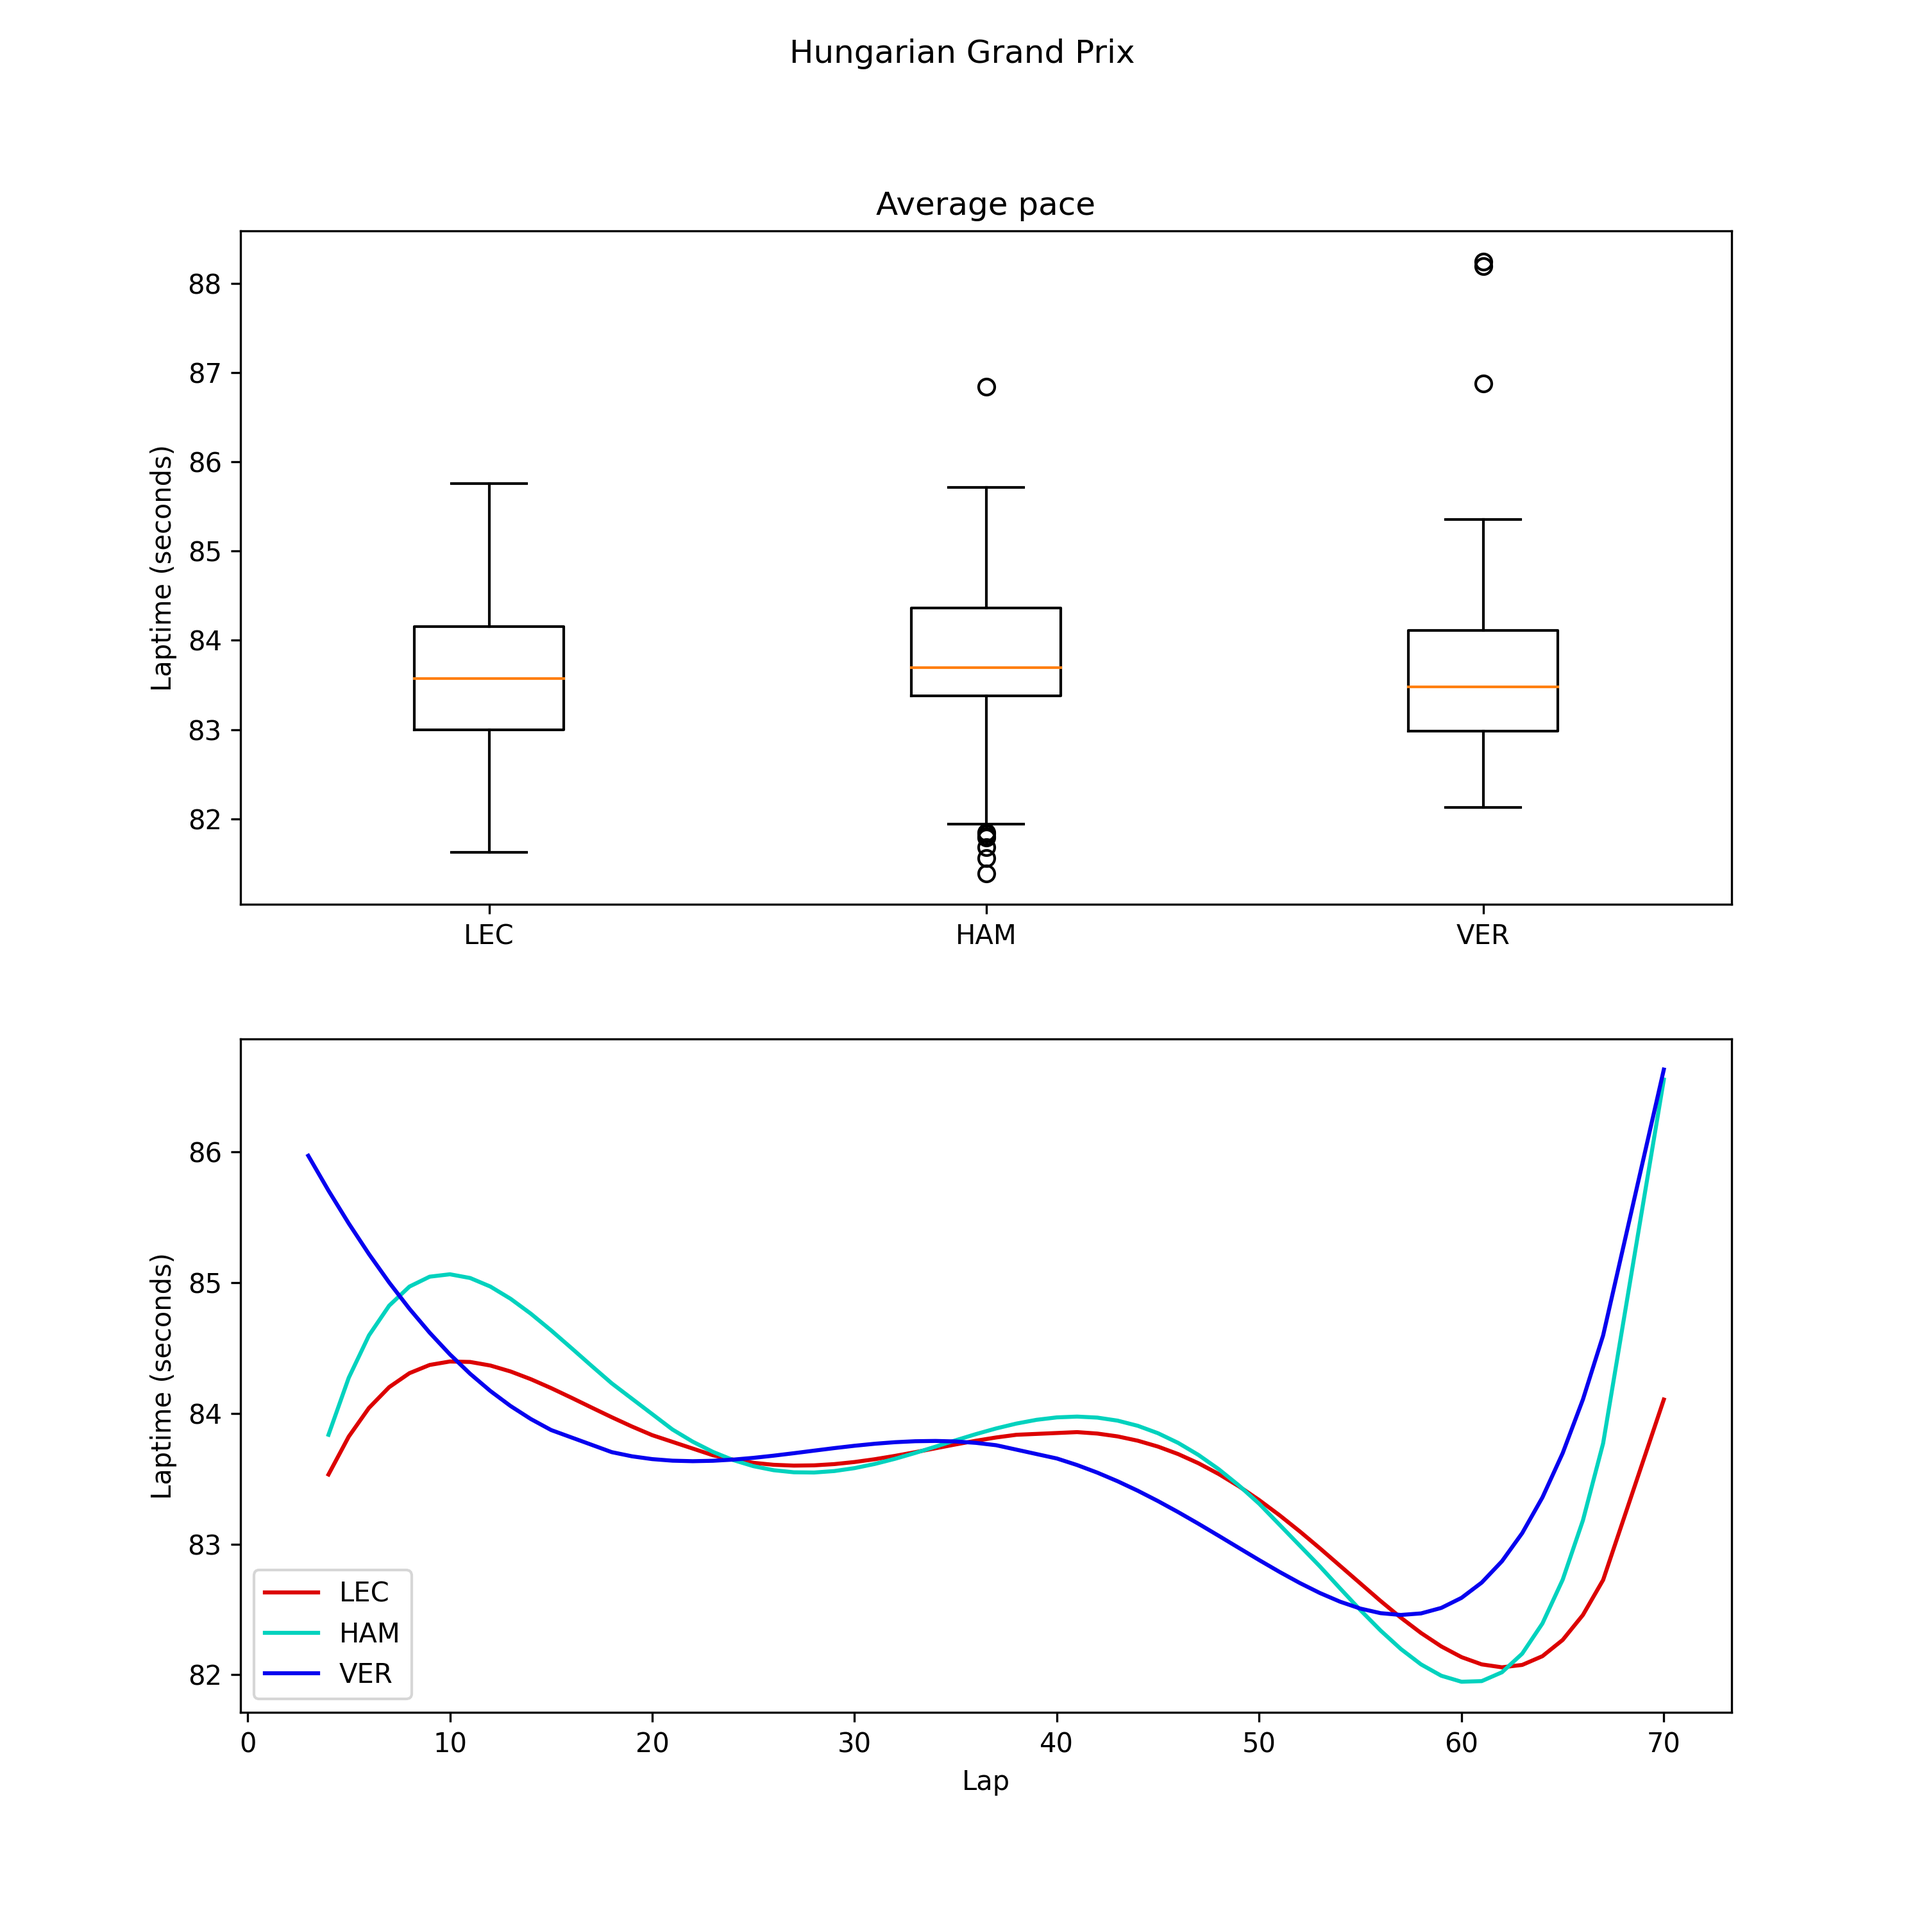
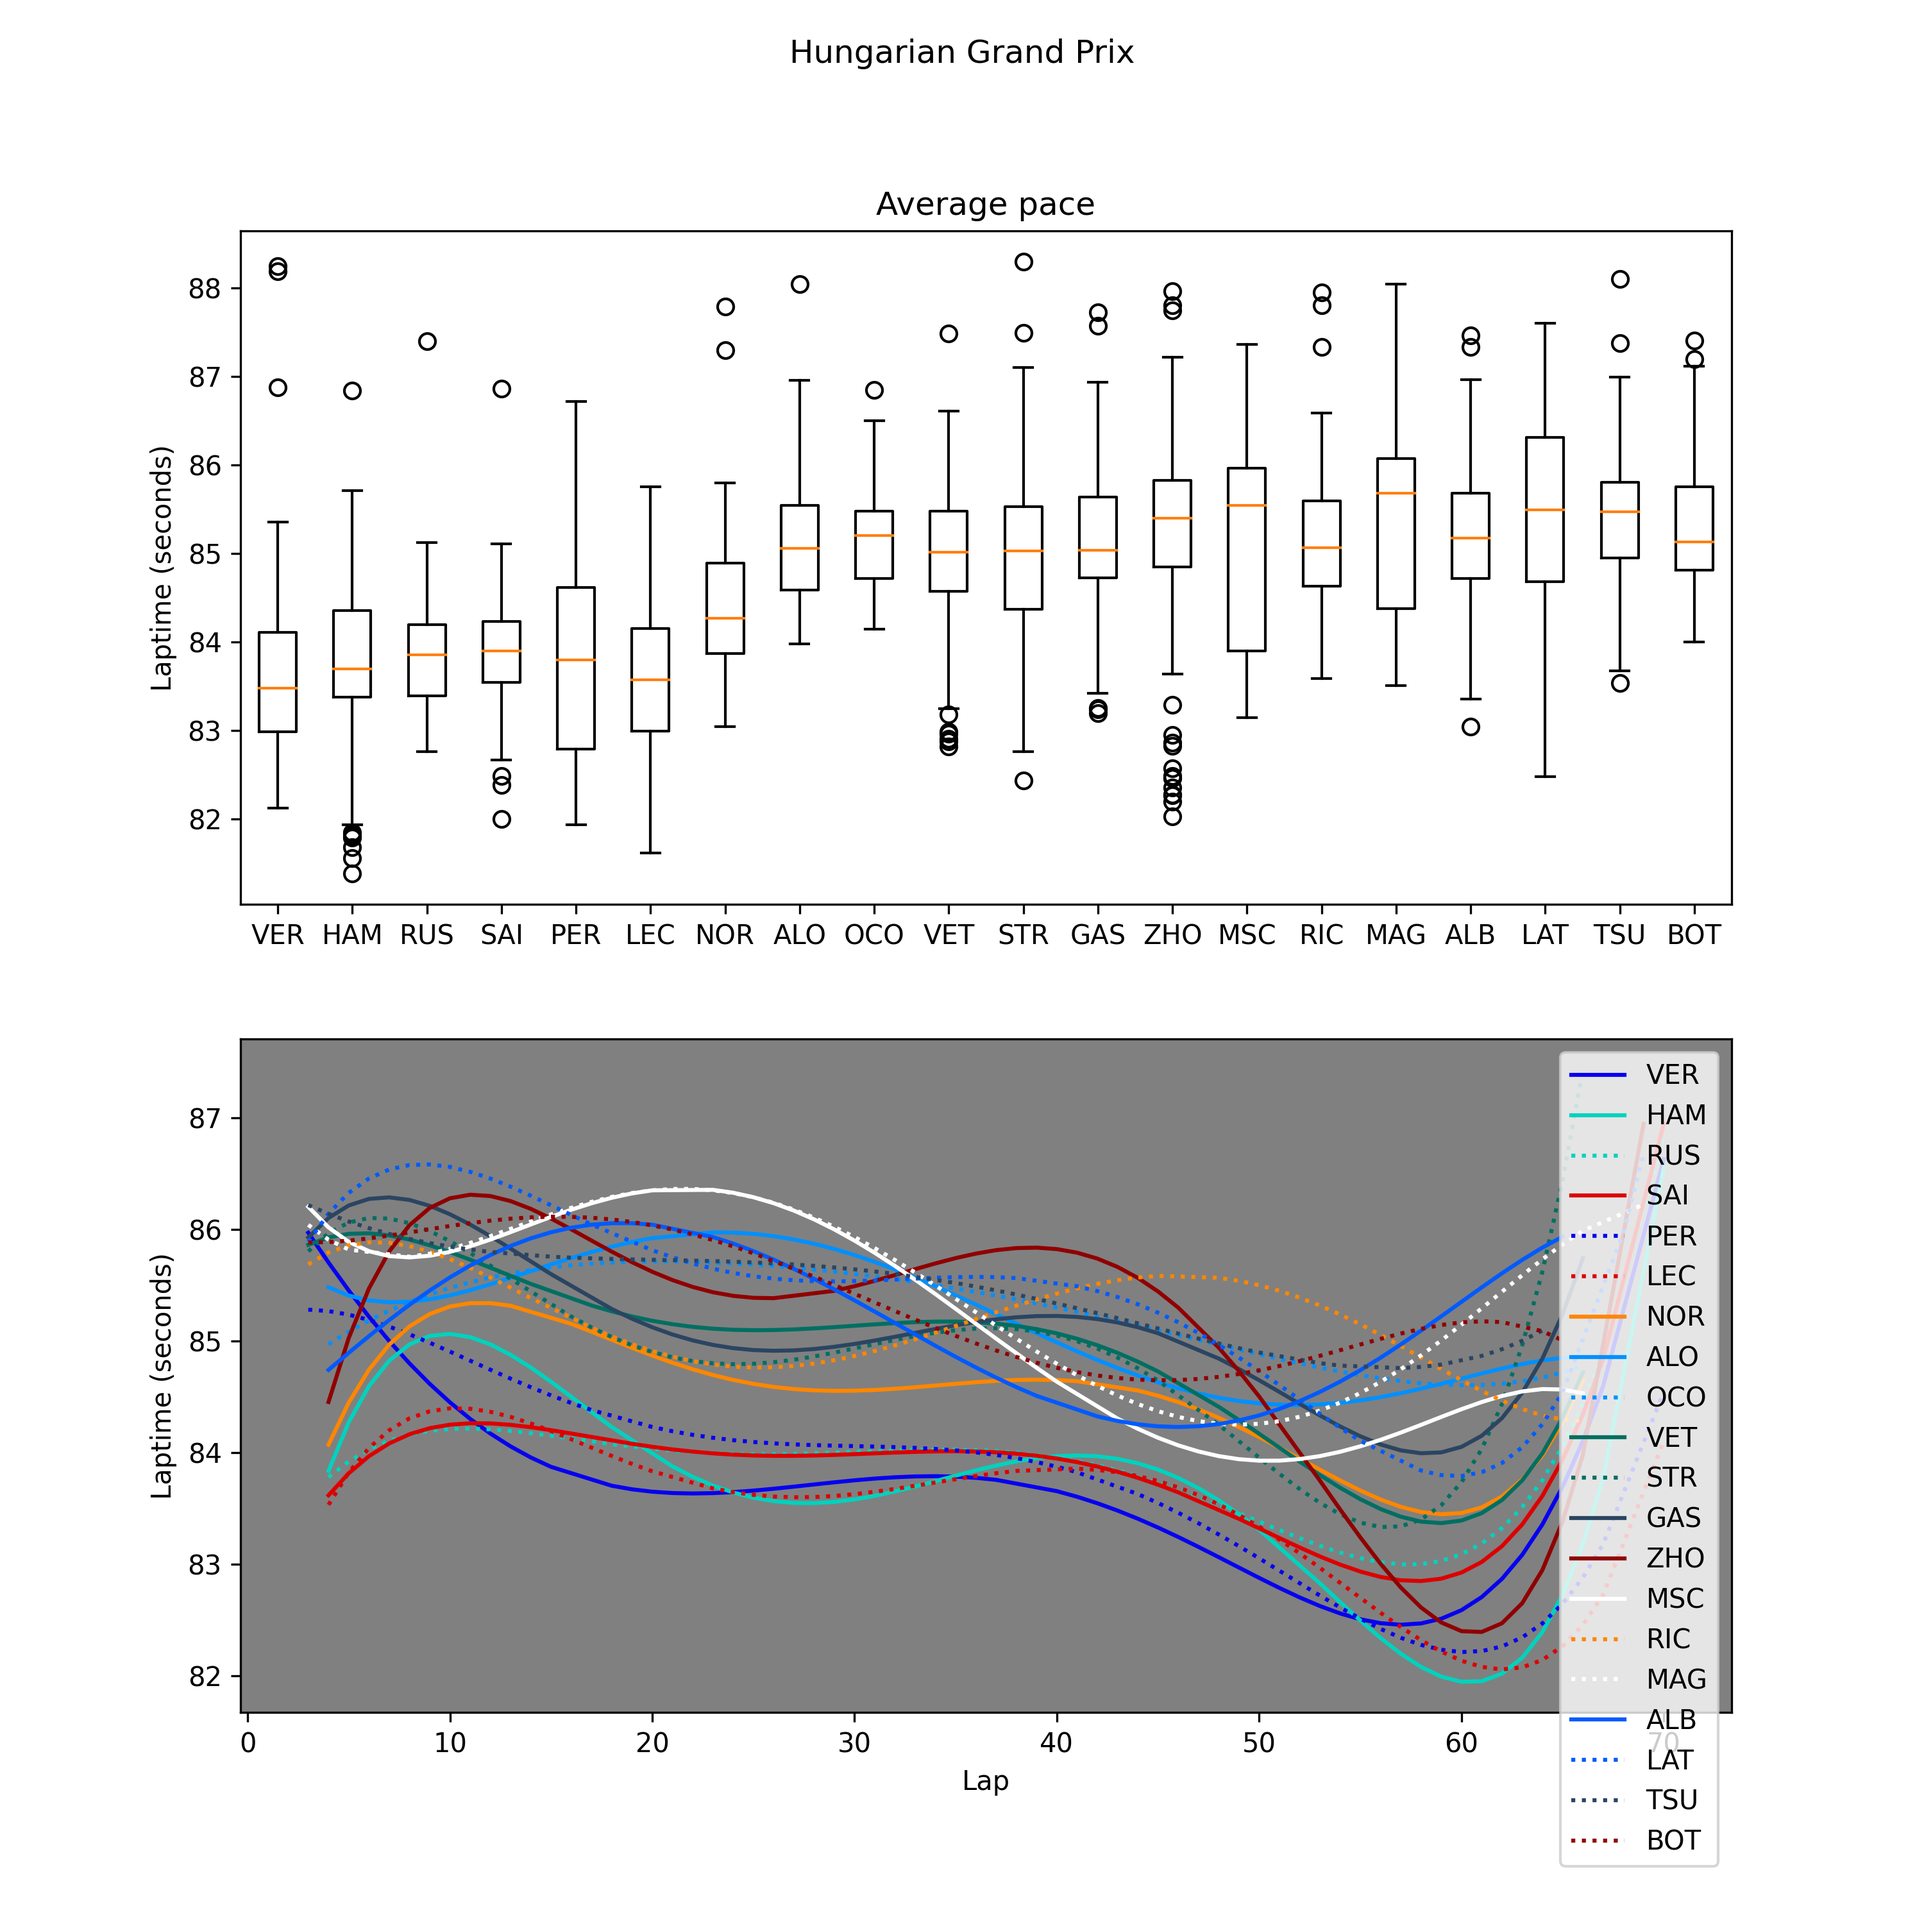
fixed error appearing when no drivers is given in arguments

diff --git a/main.py b/main.py
@@ -1,16 +1,15 @@
 import fastf1 as ff
-from fastf1 import plotting 
+from fastf1 import plotting
 import pandas as pd
 from matplotlib import pyplot
 from matplotlib.pyplot import figure
 from matplotlib import cm
 import numpy as np
-import os 
+import os
 from datetime import datetime as dt
 import argparse
 
 CURRENT_PATH = os.path.dirname(os.path.abspath(__file__))
-print("path:", CURRENT_PATH)
 
 # enabling the ff1 cache
 done = False
@@ -19,7 +18,7 @@ while not done:
         ff.Cache.enable_cache('.cache/')
         done = True
     except NotADirectoryError:
-        os.mkdir
+        os.mkdir(os.path.join(CURRENT_PATH, ".cache/"))
 
 # avoid pandas error
 pd.options.mode.chained_assignment = None
@@ -37,10 +36,10 @@ def get_latest_race_name(schedule):
         if event['EventDate'] < today_date:
             latest = event
         else:
-            return latest['EventName']
-        
+            return latest['EventName'] 
 
-# argparse settings 
+
+# argparse settings
 description = """
 f1-laptimes is a tool for visualizing lap-by-lap pace and average pace over a Formula 1 session.
 """
@@ -48,7 +47,7 @@ f1-laptimes is a tool for visualizing lap-by-lap pace and average pace over a Fo
 parser = argparse.ArgumentParser(formatter_class=argparse.RawDescriptionHelpFormatter, description=description)
 parser.add_argument("-y", "--year", metavar="YEAR", type=int, default=dt.now().year, help="The year of the session to analyze, default is the current year.")
 parser.add_argument("-t", "--track", metavar="TRACK", default=get_latest_race_name(ff.get_event_schedule(dt.now().year)), help="The track of the session to analyse, default is the latest available session in the year.")
-parser.add_argument("-d", "--drivers", metavar="DRIVERS", type=str, default="", nargs='+', help="The drivers to analyze, default is all drivers.")
+parser.add_argument("-d", "--drivers", metavar="DRIVERS", type=str, nargs='+', help="The drivers to analyze, default is all drivers.")
 parser.add_argument("-df", "--drivers-file", metavar="DRIVERS_FILE", type=str, help="Path to a file containing a comma separated list of drivers to display. If both a file and a list of drivers are given as arguments, the file will be ignored")
 parser.add_argument("-s", "--save", action='store_true', help="Save the figure in a file.")
 parser.add_argument("-b", "--backup", action='store_true', help="Backup the image in the remote github repository.")
@@ -64,7 +63,7 @@ GP = None
 race = None
 session = args['session']
 
-try :
+try:
     GP = int(args['track'])
     race = schedule.get_event_by_round(GP)
 except ValueError:
@@ -73,7 +72,7 @@ except ValueError:
 race = race.get_session(session)
 
 laps = race.load_laps()
-laps['LapTimeSeconds'] = laps['LapTime'].dt.total_seconds() 
+laps['LapTimeSeconds'] = laps['LapTime'].dt.total_seconds()
 
 # exclude pit stop laps 
 laps = laps.loc[(laps['PitOutTime'].isnull() & laps['PitInTime'].isnull())]
@@ -82,14 +81,17 @@ laps = laps.loc[(laps['PitOutTime'].isnull() & laps['PitInTime'].isnull())]
 # quantiles
 q75, q25 = laps['LapTimeSeconds'].quantile(0.75), laps['LapTimeSeconds'].quantile(0.25)
 inter = q75 - q25
-laptime_max = q75 + (1.5 * inter) 
+laptime_max = q75 + (1.5 * inter)
 laptime_min = q25 - (1.5 * inter)
 
 laps.loc[laps['LapTimeSeconds'] < laptime_min, 'LapTimeSeconds'] = np.nan
 laps.loc[laps['LapTimeSeconds'] > laptime_max, 'LapTimeSeconds'] = np.nan
 
 # plotting 
-drivers = [driver.upper() for driver in args['drivers']]
+if args['drivers']:
+    drivers = [driver.upper() for driver in args['drivers']]
+else:
+    drivers = [driver[1][2] for driver in race.results.iterrows()]
 teams = []
 
 # plot size configuration 
@@ -101,7 +103,7 @@ fig, ax = pyplot.subplots(2)
 laptimes = [laps.pick_driver(x)['LapTimeSeconds'].dropna() for x in drivers]
 ax[0].boxplot(laptimes, labels=drivers)
 ax[0].set_title('Average pace')
-ax[0].set(ylabel = 'Laptime (seconds)')
+ax[0].set(ylabel='Laptime (seconds)')
 
 # laptimes (lap-by-lap)
 for driver in drivers:
@@ -124,9 +126,9 @@ for driver in drivers:
 
 if 'Haas F1 Team' in teams:
     ax[1].set_facecolor("grey")
-    
+   
 fig.suptitle(f"{race.event['EventName']}")
-        
+       
 # save the figure 
 if args['save']:
     filename = f"{str(race.event['EventDate'])[:4]}-{race.event['Country']}-{race.name}.png"
@@ -134,16 +136,16 @@ if args['save']:
 
     # add the file to the repository and commit change 
     os.system(f'git add outputs/{filename}')
-    
+   
     # if backup option is enabled, create a backup of the file on the github remote repository
     if args['backup']:
         message = f"Plotted {str(race.event['EventDate'])[:4]} {race.event['Country']} Grand Prix {race.name} data" if args['message'] == "" else args['message']
         os.system(f"""git commit -a -m "{message}" """)
-        with open(f'outputs/.history', mode='w') as history_file:
+        with open('outputs/.history', mode='w') as history_file:
             history_file.write(f"On {dt.now()} - backed up {filename}\n")
         os.system("git push")
-    
+   
 # display the figure
 if not args['no_output']:
     pyplot.show()
-    
+   
